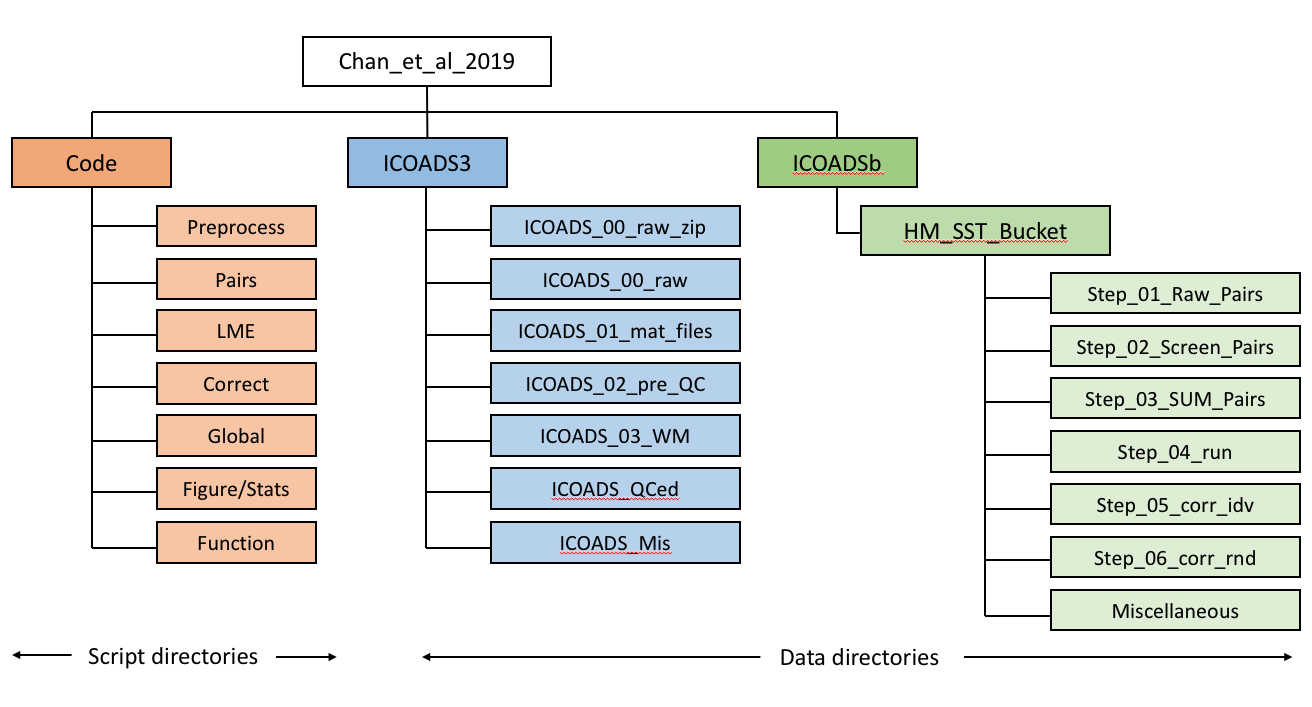
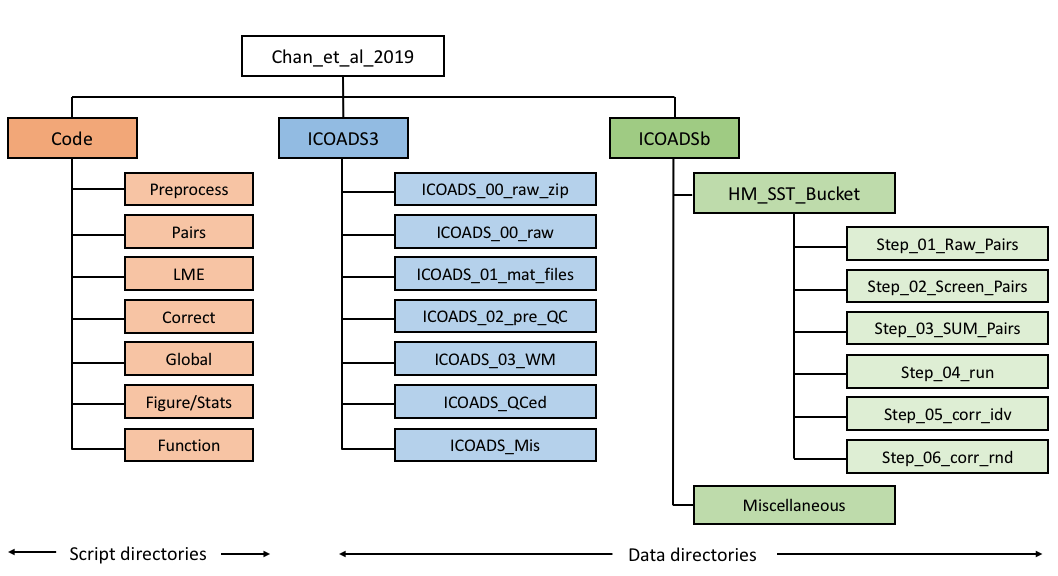
Update readme.md

Changed region(s): [[0.0, 0.0312, 0.9981, 1.0], [0.3119, 0.9062, 0.5614, 0.9688], [0.0, 0.9062, 0.2495, 0.9688]]

diff --git a/README.md b/README.md
@@ -1,12 +1,12 @@
 # Matlab scripts for groupwise bucket corrections in Chan et. al. 2019
 
-## System requirements:
+## Overview and system requirements:
 
 Below is the flow chart of our analysis.
 
 ![image](Flow_chart.png)
 
-Several steps in processing are memory and computationally intensive.  Our analysis was run on Harvard Research Computing clusters and uses 100 nodes and 150GB memory per node, and required 2,000 core-hours of computation and 70GB of disk space.  
+Several steps in processing are memory and computationally intensive.  Our analysis was run on Harvard Research Computing clusters and uses 200 cpus and 150GB memory per cpu, and requires 5,000 core-hours of computation and 70GB of disk space.  
 
 For purposes of facilitating reproduction we have also provided files resulting from our computation at various stages of the analysis (indicated by red arrows).
 
@@ -20,12 +20,25 @@ Run [Chan_et_al_init.m](Chan_et_al_init.m) to initialize the analysis.  This scr
 `Chan_et_al_init($home_data)`
 
 ![image](Directories_2.png)
-
 ________________________________
 
+## Quick start
 
+After initialization, simply run [Quick_start.m](Quick_start.m) to generate Fig. 1-4 and Table 1, as well as numbers reported in the main text.
 
+__[Prerequisite]__ Please make sure that you have the following files downloaded and placed in corresponding files.
 
+* __SUM_corr_idv_HM_SST_Bucket_GC_*.mat__: key statistics for ICOADSa and ICOADSb, which can be downloaded from [here]() and should be placed in `$home_ICOADSb/HM_SST_Bucket/`.  Key statistics include the spatial pattern of 1908-1941 trends, monthly SSTs over the North Pacific and North Atlantic, monthly SSTs near East Asia and the Eastern U.S., and PDO indices.
+
+* __SUM_corr_rnd_HM_SST_Bucket_GC_*.mat__: as above but for 1,000 ICOADSb correction members.
+
+* __1908_1941_Trd_TS_and_pdo_from_all_existing_datasets_20190424.mat__: key statistics for existing major SST estimates, which can be downloaded from [here]() and should be placed in `$home_ICOADSb/Miscellaneous/`.  Major SST estimates are ERSST5, COBESST2, HadISST2, and HadSST3.  We have a copy [here]() for raw data used in our analysis.  All of these datasets are regridded to 5-degree resolution, which can be downloaded from [here]().
+
+* __Stats_HM_SST_Bucket_deck_level_1.mat__: statistics of numbers of measurements for each nation-deck group, which can be downloaded from [here]() and should be placed in `$home_ICOADSb/HM_SST_Bucket/`.
+
+* __LME_HM_SST_Bucket_*.mat__: groupwise offset estimates for bucket SSTs, which can be downloaded from [here]() and should be placed in `$home_ICOADSb/HM_SST_Bucket/Step_04_run/`.
+
+* __CRUTEM.4.6.0.0.anomalies.nc__: CRUTEM4 dataset. We have a copy [here]() and one should place it in `$home_ICOADSb/Miscellaneous/`.
 
 
 
@@ -34,84 +47,109 @@ ________________________________
 ## A. Preprocess:
 This folder contains scripts for downloading and preprocessing the ICOADS3.0 data. ICOADS3.0 is 28GB and can be downloaded from [RDA dataset 548.0](https://rda.ucar.edu/datasets/ds548.0/#!description).  We have also archived a version [here]().  
 
-This step takes X to run.  To run these scripts, before get started, please make sure the following metadata are downloaded from [here] and placed in `$home_ICOADS3/ICOADS_Mis/`
+__[Prerequisite]__ please make sure the following metadata are downloaded from [here]() and placed in `$home_ICOADS3/ICOADS_Mis/`:
 
-update [ICOADS_OI.m](Preprocess/__ICOADS_OI.m__) according to where the ICOADS3.0 dataset is stored (`$home_ICOADS`) and run `.m` to generate directories for raw and processed ICOADS3.0 dataset.
+ * __OI_clim_1982_2014.mat__: 33-year [OI-SST](https://www.esrl.noaa.gov/psd/data/gridded/data.noaa.oisst.v2.highres.html) daily climatology,
 
-0. [ICOADS_Step_00_download.csh](Prerocess/ICOADS_Step_00_download.csh) downloads raw ICOADS3.0 data to folder `$Home_ICOADS3.0/ICOADS_00_raw_zip/` and [ICOADS_Step_00_unzip.sh](Preprocess/ICOADS_Step_00_unzip.sh) unzips the data files.  Unzipped files are stored in `$Home_ICOADS3.0/ICOADS_00_raw/`.
+ * __ERA_interim_AT2m_1985_2014_daily_climatology.mat__: 30-year [ERA-interim](https://www.ecmwf.int/en/forecasts/datasets/reanalysis-datasets/era-interim) 2m-air temperature daily climatology,
 
-1. [ICOADS_Step_01_ascii2mat.m](Preprocess/ICOADS_Step_01_ascii2mat.m)  converts ICOADS data from ASCII file to .mat files and stores them in `$Home_ICOADS3.0/ICOADS_01_mat_files/`.
+ * __Dif_DMAT_NMAT_1929_1941.mat__: Mean daytime and nighttime marine air temperature difference in 1929-1941,
 
-2. [ICOADS_Step_02_pre_QC.m](Preprocess/ICOADS_Step_02_pre_QC.m) assigns missing country information and measurement method and outputs files to
-`$Home_ICOADS3.O/ICOADS_02_pre_QC/`
+ * __Dif_DMAT_NMAT_1947_1956.mat__: Mean daytime and nighttime marine air temperature difference in 1947-1956,
 
-3. [ICOADS_Step_03_WM.m](Preprocess/ICOADS_Step_03_WM.m) generates winsorized mean of 5-day SST at 1 degree resolution.  These gridded data are stored in `$Home_ICOADS3.0/ICOADS_03_WM/`
+ * __Buddy_std_SST.mat__:  Output from step [A.4],
 
-4. [ICOADS_Step_04_Neighbor_std.m](Preprocess/ICOADS_Step_04_Neighbor_std.m) computes between neighbor standard deviation of SST for each month.
+ * __Buddy_std_NMAT.mat__:  Output from step [A.4].
 
-5. [ICOADS_Step_05_Buddy_check.m](Preprocess/ICOADS_Step_05_Buddy_check.m) performs buddy check and other quality controls.  Outputs are preprocessed files stored in `$Home_ICOADS3.0/ICOADS_QCed/`
+__A.0.__ [ICOADS_Step_00_download.csh](Preprocess/ICOADS_Step_00_download.csh) downloads raw ICOADS3.0 data to folder `$home_ICOADS3/ICOADS_00_raw_zip/` and [ICOADS_Step_00_unzip.sh](Preprocess/ICOADS_Step_00_unzip.sh) unzips the data files.  Unzipped files are stored in `$home_ICOADS3/ICOADS_00_raw/`.
 
-Step 2 follows Chan et al., submitted, and steps 3-5 follow [Rayner et al. (2006)](https://journals.ametsoc.org/doi/full/10.1175/JCLI3637.1) in performing buddy check.  A [1982-2014 OI-SST daily climatology]() and [other metadata]() should be placed in `$home_ICOADS3.0/ICOADS_Mis/` to run these preprocessing scripts.
+__A.1.__ [ICOADS_Step_01_ascii2mat.m](Preprocess/ICOADS_Step_01_ascii2mat.m)  converts ICOADS data from ASCII file to .mat files and stores them in `$home_ICOADS3/ICOADS_01_mat_files/`.
+
+__A.2.__ [ICOADS_Step_02_pre_QC.m](Preprocess/ICOADS_Step_02_pre_QC.m) assigns missing country information and measurement method and outputs files to
+`$Home_ICOADS3.O/ICOADS_02_pre_QC/`.
+
+__A.3.__ [ICOADS_Step_03_WM.m](Preprocess/ICOADS_Step_03_WM.m) generates winsorized mean of 5-day SST at 1 degree resolution.  These gridded data are stored in `$home_ICOADS3/ICOADS_03_WM/`.
+
+__A.4.__ [ICOADS_Step_04_Neighbor_std.m](Preprocess/ICOADS_Step_04_Neighbor_std.m) computes between neighbor standard deviation of SST for each month.
+
+__A.5.__ [ICOADS_Step_05_Buddy_check.m](Preprocess/ICOADS_Step_05_Buddy_check.m) performs buddy check and other quality controls.  Outputs are preprocessed files stored in `$home_ICOADS3/ICOADS_QCed/`.
+
+Step 2 follows [Chan et al., submitted]() for SST and [Kent et al. (2013)](https://agupubs.onlinelibrary.wiley.com/doi/full/10.1002/jgrd.50152) for nighttime marine air temperature, and steps 3-5 follow [Rayner et al. (2006)](https://journals.ametsoc.org/doi/full/10.1175/JCLI3637.1) in performing buddy check.
 
 ________________________________
+
 ## B. Main Code:
 
-This step can be accessed directly without performing preprocessing by downloading the [preprocessed .mat files]() and place them in `$Home_ICOADS3.0/ICOADS_QCed/`.   [HM_OI.m](HM_OI.m) will need to be updated depending on where preprocessed ICOADS3.0 .mat files are hosted.  Please also specify home directory for data generated during the main analysis (`$home_LME`) and run `.m` to generate these directories.
+This step can be accessed directly without performing preprocessing by downloading the [preprocessed .mat files]() and place them in `$home_ICOADS3/ICOADS_QCed/`.   
 
-1. __Pairs__ folder contains functions that first [pair SST measurements within 300km and 2days of one another](Pairs/HM_pair_01_Raw_Pairs_dup.m) and then [screens pairs such that each measurement is used at most once](Pairs/HM_pair_02_Screen_Pairs_dup.m) ([Chan and Huybers., 2019](https://journals.ametsoc.org/doi/pdf/10.1175/JCLI-D-18-0562.1)).  In the main folder, [HM_Step_01_Run_Pairs_dup.m](HM_Step_01_Run_Pairs_dup.m) is the script to run these functions.  In addition, diurnal cycle estimates based on ICOADS3.0 buoy data, [DA_SST_Gridded_BUOY_sum_from_grid.mat]() and [Diurnal_Shape_SST.mat](), should be placed in `$home_LME/Miscellaneous/` to run the pairing.  
+__B.1.__ __Pairs__ folder contains functions that pair SST measurements.
 
-  Output files are stored in `$home_LME/Step_01_Raw_Pairs/` and `$home_LME/Step_02_Screen_Pairs/`.  Run [HM_Step_02_SUM_Pairs_dup.m](HM_Step_02_SUM_Pairs_dup.m) to combine screened pairs from individual files into one file, which will be used in following steps.  The combined file, [SUM_HM_SST_Bucket_Screen_Pairs_*.mat](), should be placed in `$home_LME/Step_03_SUM_Pairs/`.
+  __[Prerequisite]__ please make sure the following metadata files are downloaded from [here]() and placed in `$home_ICOADSb/Miscellaneous/`.  These files are diurnal cycle estimates based on ICOADS3.0 buoy data.
 
-2. __LME__ folder contains scripts that compute offsets among groups of SST measurements using on a linear-mixed-effect model ([Chan and Huybers., 2019](https://journals.ametsoc.org/doi/pdf/10.1175/JCLI-D-18-0562.1)).  In the main folder, [HM_Step_03_LME_cor_err_dup.m](HM_Step_03_LME_cor_err_dup.m) is the script to perform the offset estimation.  Data generated in this step, including group-wise offset estimates - [LME_HM_SST_Bucket_yr_start_1850*.mat](),  will be saved in `$home_LME/Step_04_run/`.
+   * __DA_SST_Gridded_BUOY_sum_from_grid.mat__
 
-3. __Correct__ folder contains scripts that apply groupwise corrections and generates gridded SST estimates.  Groupwise corrections are applied to each SST measurement by removing offset estimated in step __2__.  In the main folder, [HM_Step_04_Corr_Idv.m](HM_Step_04_Corr_Idv.m) is the script to perform corrections using the maximum likelihood estimates of offsets.  [This script](HM_Step_04_Corr_Idv.m) also generates gridded SST estimates that only correct for one group at a time.  Associated output files are in `$home_LME/Step_05_corr_idv/` and can be downloaded [here]().
+   * __Diurnal_Shape_SST.mat__
 
-  In the main folder, [HM_Step_05_Corr_Rnd.m](HM_Step_05_Corr_Rnd.m) generates a 1000-member ensemble of gridded SSTs to estimate uncertainties of groupwise corrections.  For each correction member, corrected offsets are drawn from a multivariate normal distribution centered on the maximum likelihood estimates (Appendix in [Chan and Huybers., 2019](https://journals.ametsoc.org/doi/pdf/10.1175/JCLI-D-18-0562.1)).   Associated output files are in `$home_LME/Step_06_corr_rnd/` and can be downloaded [here]().
+First, run [HM_Step_01_Run_Pairs_dup.m](HM_Step_01_Run_Pairs_dup.m) to pair SST measurements following [Chan and Huybers (2019)](https://journals.ametsoc.org/doi/pdf/10.1175/JCLI-D-18-0562.1).  This script first calls [HM_pair_01_Raw_Pairs_dup.m](Pairs/HM_pair_01_Raw_Pairs_dup.m) to pair SST measurements within 300km and 2days of one another and then calls [HM_pair_02_Screen_Pairs_dup.m](Pairs/HM_pair_02_Screen_Pairs_dup.m) to screen pairs such that each measurement is used at most once.  Output files are stored in `$home_ICOADSb/HM_SST_Bucket/Step_01_Raw_Pairs/` and `$home_ICOADSb/HM_SST_Bucket/Step_02_Screen_Pairs/`.  
 
-  In the main folder, [HM_Step_06_SUM_Corr.m](HM_Step_06_SUM_Corr.m) computes statistics of corrected gridded SST estimates, e.g., trends from 1908-1941, average time series over NP and NA, and PDO indices.
+Second, run [HM_Step_02_SUM_Pairs_dup.m](HM_Step_02_SUM_Pairs_dup.m) to combine screened pairs into one file, which will be used in following steps.  The combined file, __SUM_HM_SST_Bucket_Screen_Pairs_*.mat__, is in `$home_ICOADSb/HM_SST_Bucket/Step_03_SUM_Pairs/`.  One can also download this file from [here]() and skip the pairing step.
 
-Global: This folder contains scripts that merges global correction to raw ICOADS and ICOADS with only regional bucket corrections. Running GC_Step_01_SST_merge_GC_to_ICOADSb.m generates ICOADSa and ICOADSb. Another script GC_Step_02_add_GC_to_ICOADSa_statistics.m merges key statistics, including those from random ICOADSb members, to generate figures and tables.
+---
 
-Stats: Contains a set of scripts that generate statistics reported in the texts as well as some tables. It is better to run these lines before generating tables and figures.
+__B.2.__ __LME__ folder contains scripts that compute offsets among nation-deck groups of SST measurements using a linear-mixed-effect model ([Chan and Huybers., 2019](https://journals.ametsoc.org/doi/pdf/10.1175/JCLI-D-18-0562.1)).  
 
-Figure: Contains scripts to plot figure in the main text. We have placed functions starting with CDC_ or CDF_ in the External folder. They are scripts required to generate figures.
+__[Prerequisite]__ please make sure the following metadata file is downloaded from [here]() and placed in `$home_ICOADSb/Miscellaneous/`.  This file contains SST covariance structures estimated from the 33-year [OI-SST](https://www.esrl.noaa.gov/psd/data/gridded/data.noaa.oisst.v2.highres.html) dataset.
 
-________________________________
+  * __OI_SST_inter_annual_decorrelation_20180316.mat__.
 
-Data and metadata
+Run, [HM_Step_03_LME_cor_err_dup.m](HM_Step_03_LME_cor_err_dup.m) to perform the offset estimation.  This script first calls [HM_lme_bin_dup.m](LME/HM_lme_bin_dup.m) to aggregate SST pairs according to combinations of groupings, years, and regions, which reduces the number of SST differences from 17.8 million to 71,973.  This step will output __BINNED_HM_SST_Bucket__ to directory `$home_ICOADSb/HM_SST_Bucket/Step_04_run/`.
 
-Because pre-processing ICOADS take substantial amount of time to run, and also to guarantee the full reproduction of our results, we provide pre-processed ICOADS 3.0 dataset we used in .mat format (). You can choose to start from here, which is step 2, pairing of SSTs.
+[HM_Step_03_LME_cor_err_dup.m](HM_Step_03_LME_cor_err_dup.m) then calls [HM_lme_fit_hierarchy.m](LME/HM_lme_fit_hierarchy.m) to fit the LME regression model and output groupwise offset estimates.  The output file, __LME_HM_SST_Bucket_*.mat__, will also be placed in `$home_ICOADSb/HM_SST_Bucket/Step_04_run/`.  Note that fitting the LME model involves inversion of a big matrix (~70,000 x 70,000) and takes 150GB of memory to run.
 
-However, the whole pairing step is also time consuming, and we provide sum of all pairs with setup used in the main text in the following file, which can be found in the Data folder.
+Data generated in this step can be downloaded from [here]().  Again, one can skip this step by downloading __LME_HM_SST_Bucket_*.mat__.
 
-SUM_HM_SST_Bucket_Screen_Pairs_c_once_1850_2014_NpD_1_rmdup_0_rmsml_0_fewer_first_0.mat
+---
 
-We also provide the following data as check point of the whole analysis, which can all be found in the Data folder.
+__B.3.__ __Correct__ folder contains scripts that apply groupwise corrections and generates 5x5-degree gridded SST estimates.  Groupwise corrections are applied to each SST measurement by removing offset estimated in step __B.2__ according to grouping, year, and region.   
 
-Binned pairs:
+__[Prerequisite]__ please make sure that you have the following data or metadata placed in corresponding directories.
 
-BINNED_HM_SST_Bucket_yr_start_1850_deck_level_1_cor_err_rmdup_0_rmsml_0_fewer_first_0_correct_kobe_0_connect_kobe_1.mat
+  * __IMMA1_R3.0.0_YYYY-MM_QCed.mat__: preprocessed ICOADS3.0 .mat files from running step __A.1 - A.5__.  They should be placed in `$home_ICOADS3/ICOADS_QCed/` and can be downloaded from [here]().
 
-LME results:
+  * __internal_climate_patterns.mat__: spatial pattern of PDO in SST.  It can be downloaded from [here]() and should be placed in `$home_ICOADSb/Miscellaneous/`.
 
-LME_HM_SST_Bucket_yr_start_1850_deck_level_1_cor_err_rmdup_0_rmsml_0_fewer_first_0_correct_kobe_0_connect_kobe_1.mat
+  * __nansum.mat__: a function that compute summation but returns NaN when all inputs are NaN.  As reference, the default Matlab [nansum.m](https://www.mathworks.com/help/stats/nansum.html) function will return zero.  Our [nansum.m](Function/nansum.m) is in `$home_Code/Function/`.  Please __make sure__ that your Matlab calls our [nansum.m](Function/nansum.m) because SST trends in data sparse regions are sensitive.  
 
-ICOADSa and ICOADSb:
+First, run [HM_Step_04_Corr_Idv.m](HM_Step_04_Corr_Idv.m) to perform corrections using the maximum likelihood estimates of offsets and generate gridded SST estimates.  [HM_Step_04_Corr_Idv.m](HM_Step_04_Corr_Idv.m) also generates gridded SST estimates that correct for only one group at a time.  This step generates SST datasets that only have groupwise corrections, i.e., __corr_idv_HM_SST_Bucket_*.mat__.  These files can be downloaded from [here]() and should be placed in `$home_ICOADSb/HM_SST_Bucket/Step_05_corr_idv/`.
 
-ICOADS_a_b.mat
+Then, run [HM_Step_05_Corr_Rnd.m](HM_Step_05_Corr_Rnd.m) to generate a 1000-member ensemble of gridded SSTs, which can be used to estimate uncertainties of groupwise corrections.  For each correction member, offsets to be corrected are drawn from a multivariate normal distribution that centers on the maximum likelihood estimates [see appendix in [Chan and Huybers., (2019)](https://journals.ametsoc.org/doi/pdf/10.1175/JCLI-D-18-0562.1)].   This step generates SST datasets that only have randomized groupwise corrections, i.e., __corr_rnd_HM_SST_Bucket_*.mat__.  These files can be downloaded from [here]() and should be placed in `$home_ICOADSb/HM_SST_Bucket/Step_06_corr_rnd/`.
 
-Statistics reported:
+As the last part of this step __B.3__, run [HM_Step_06_SUM_Corr.m](HM_Step_06_SUM_Corr.m) to compute statistics of gridded SST estimates.  These statistics include the spatial pattern of 1908-1941 trends, monthly SSTs over the North Pacific and North Atlantic, monthly SSTs near East Asia and the Eastern U.S., and PDO indices.  This step will output __SUM_corr_idv_HM_SST_Bucket_*.mat__ (central estimates) and __SUM_corr_rnd_HM_SST_Bucket_*.mat__ (uncertainty estimates) in `$home_ICOADSb/HM_SST_Bucket/`.  Again, one can skip step __B.3.__ by downloading these two files from [here](https://github.com/duochanatharvard/SST_Bucket_Model).
 
-SUM_corr_idv_HM_SST_Bucket_deck_level_1_GC_do_rmdup_0_correct_kobe_0_connect_kobe_1_yr_start_1850.mat
+---
 
-Statistics based on 1,000 correction members:
+__B.4.__ __Global__ folder contains scripts that merge large-scale common bucket corrections to raw ICOADS3.0 and ICOADS3.0 with groupwise corrections.  The resulting datasets are called ICOADSa and ICOADSb, respectively.  
 
-SUM_corr_rnd_HM_SST_Bucket_deck_level_1_GC_do_rmdup_0_correct_kobe_0_connect_kobe_1_yr_start_1850.mat
+__[Prerequisite]__ please make sure to download the following file from [here]() and place it in `$home_ICOADSb/Miscellaneous/`.
 
-Statistics for bucket records:
+  * __Global_Bucket_Correction_start_ratio_35_mass_small_0.65_mass_large_1.7_start_ratio_35.mat__: our reproduced 1850-2014 common bucket bias correction.  The reproduction follows [Kennedy et al., (2012)](https://agupubs.onlinelibrary.wiley.com/doi/abs/10.1029/2010jd015220) and details can be found in Extended Data Fig.8 and Supplemental Information Table 2 in Chan et al., submitted.  These corrections involve running two bucket models, which can be accessed from [here](https://github.com/duochanatharvard/SST_Bucket_Model).
 
-Stats_HM_SST_Bucket_deck_level_1.mat
+Run [HM_Step_07_Merge_GC.m](HM_Step_07_Merge_GC.m) to run step __B.4__.  The script first calls [GC_Step_01_SST_merge_GC_to_ICOADSb.m](Global/GC_Step_01_SST_merge_GC_to_ICOADSb.m) to generate ICOADSa and ICOADSb and then calls [GC_Step_02_add_GC_to_ICOADSa_statistics.m](GC_Step_02_add_GC_to_ICOADSa_statistics.m) to incorporate key statistics associated with common bucket corrections to __SUM_corr_idv_HM_SST_Bucket_*.mat__ and __SUM_corr_rnd_HM_SST_Bucket_*.mat__.  
 
-Assess to individual regional correction members are available upon request.
+This step will generate the following files in `$home_ICOADSb/HM_SST_Bucket/`, which will be used to generate Tables and Figures and can be downloaded from [here]().
 
-Metadata is required to run the whole analysis. These files are placed in folder Metadata. Please make sure to put them in the right directory such that HM_OI.m and ICOADS_OI.m, two output/input controlling functions, can find these files.
+  * __ICOADS_a_b.mat__: 5x5-degree gridded bucket SST datasets. ICOADSa contains only common bucket corrections, whereas ICOADSb contains both common bucket corrections and groupwise corrections.
+
+  * __SUM_corr_idv_HM_SST_Bucket_GC_*.mat__: key statistics for ICOADSa and ICOADSb, see step __B.3__.
+
+  * __SUM_corr_rnd_HM_SST_Bucket_GC_*.mat__: key statistics for 1,000 ICOADSb correction members.
+
+---
+
+__B.5.__ This will be the same as the quick start that generates Fig. 1-4 and Table 1, as well as numbers reported in the main text.
+
+
+-------
+Maintained by __Duo Chan__ (duochan@g.harvard.edu)
+
+Last Update: April 30, 2019
